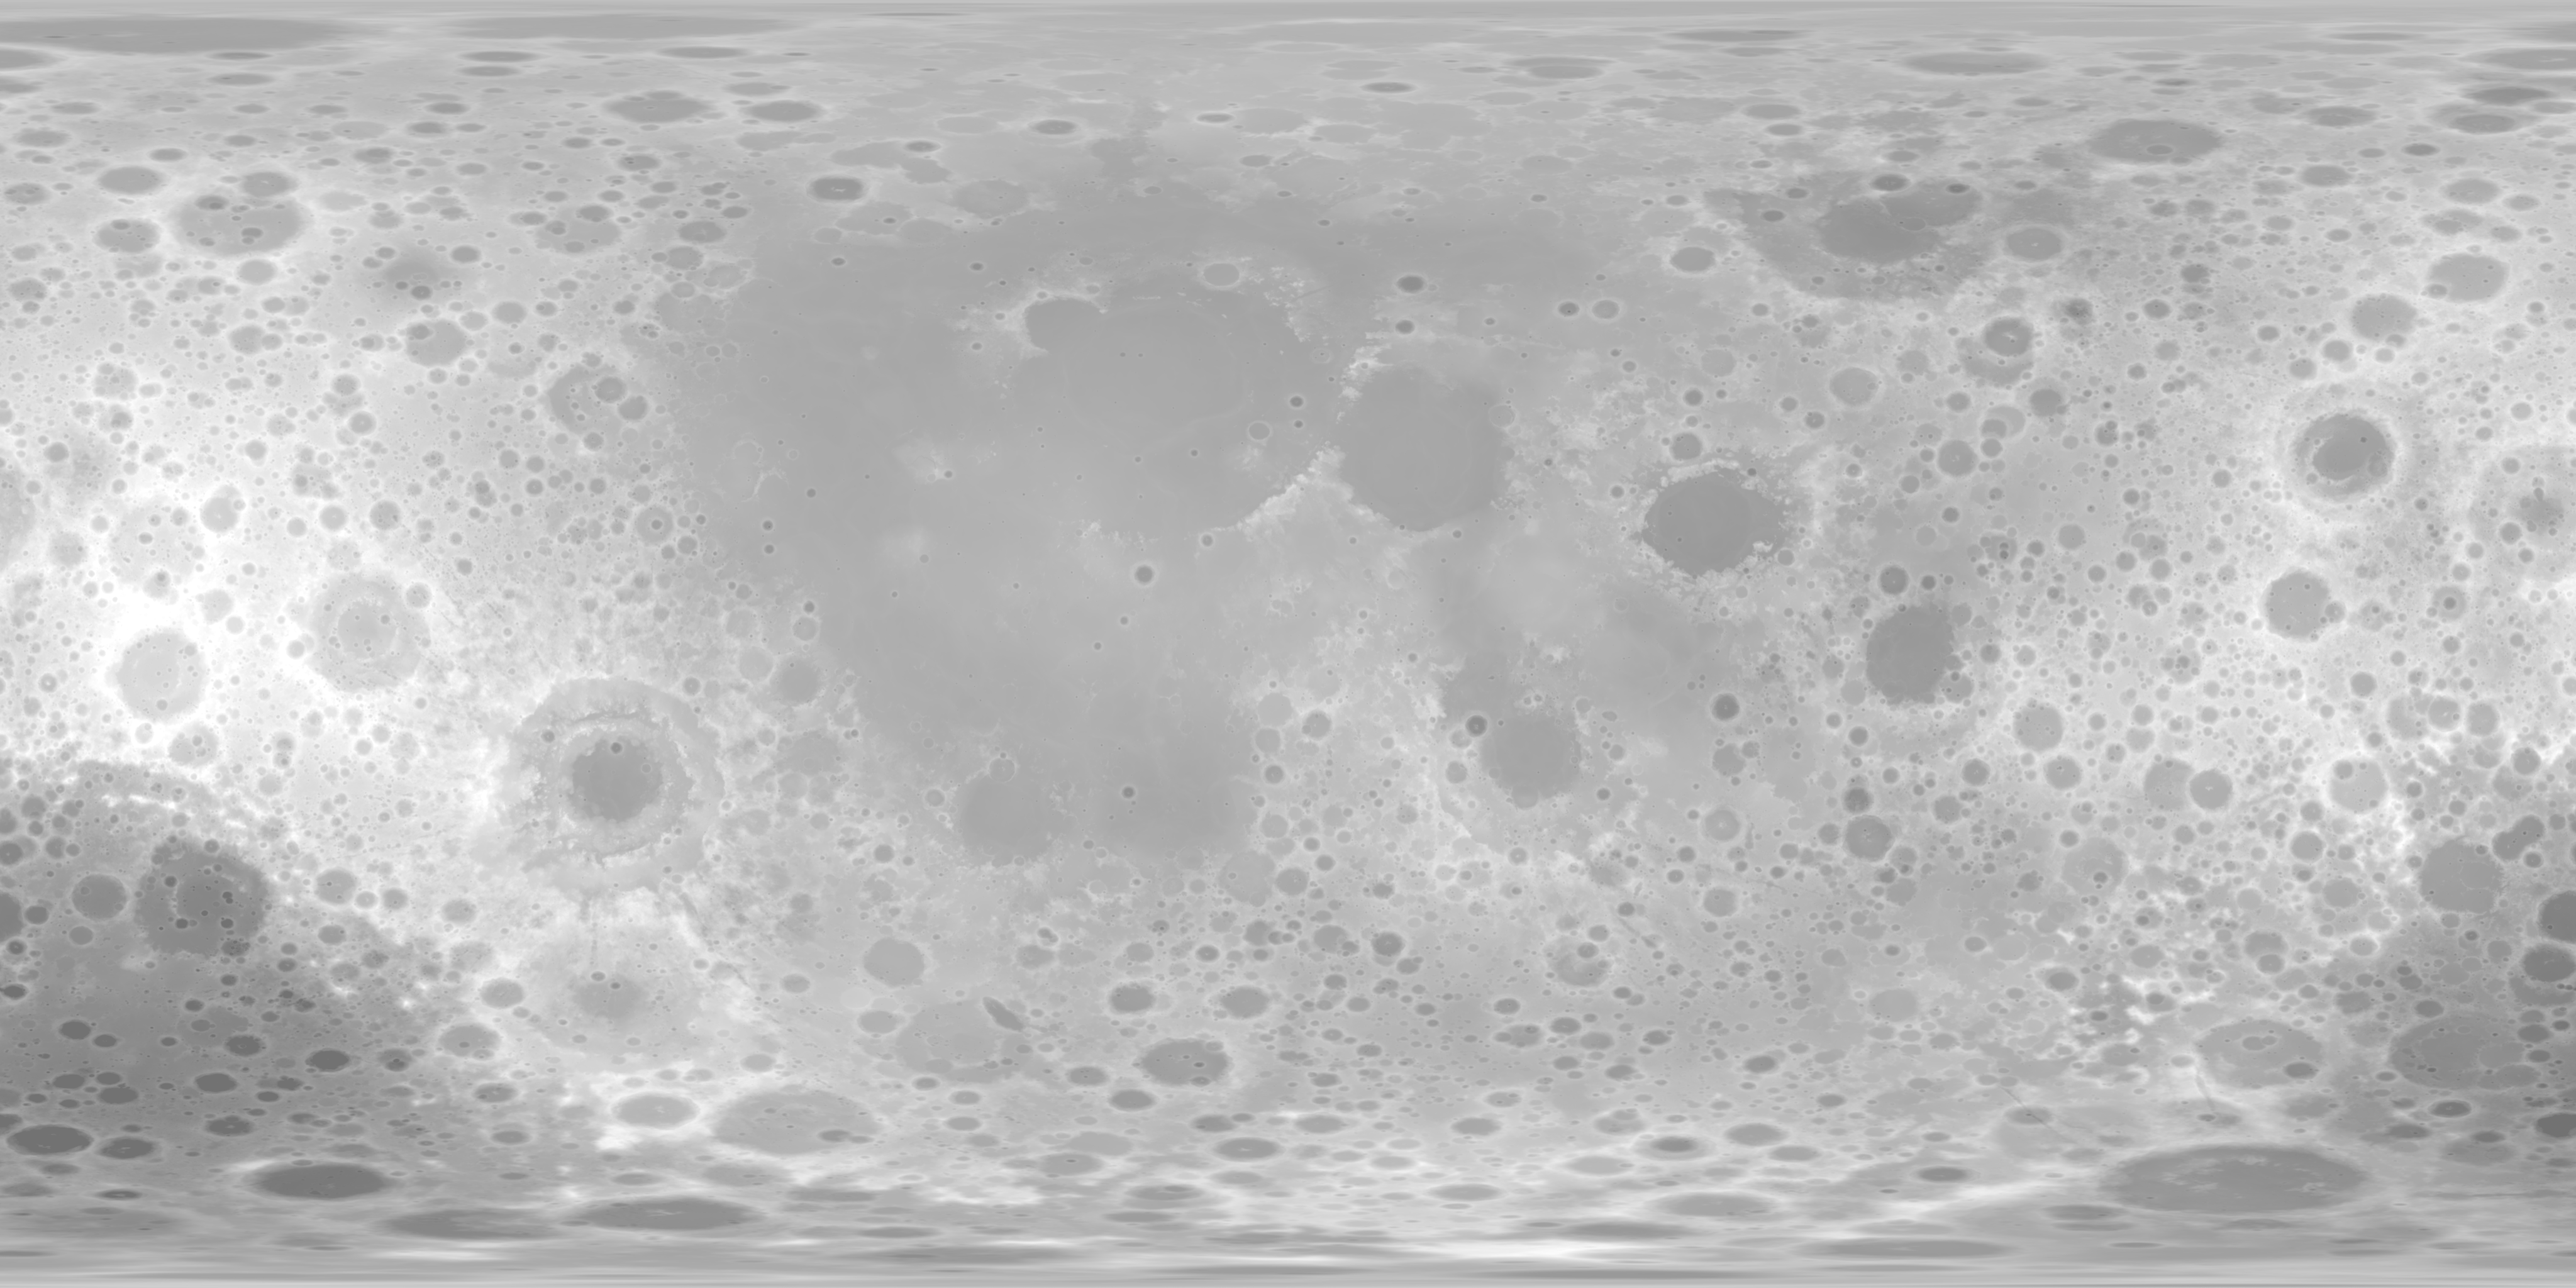
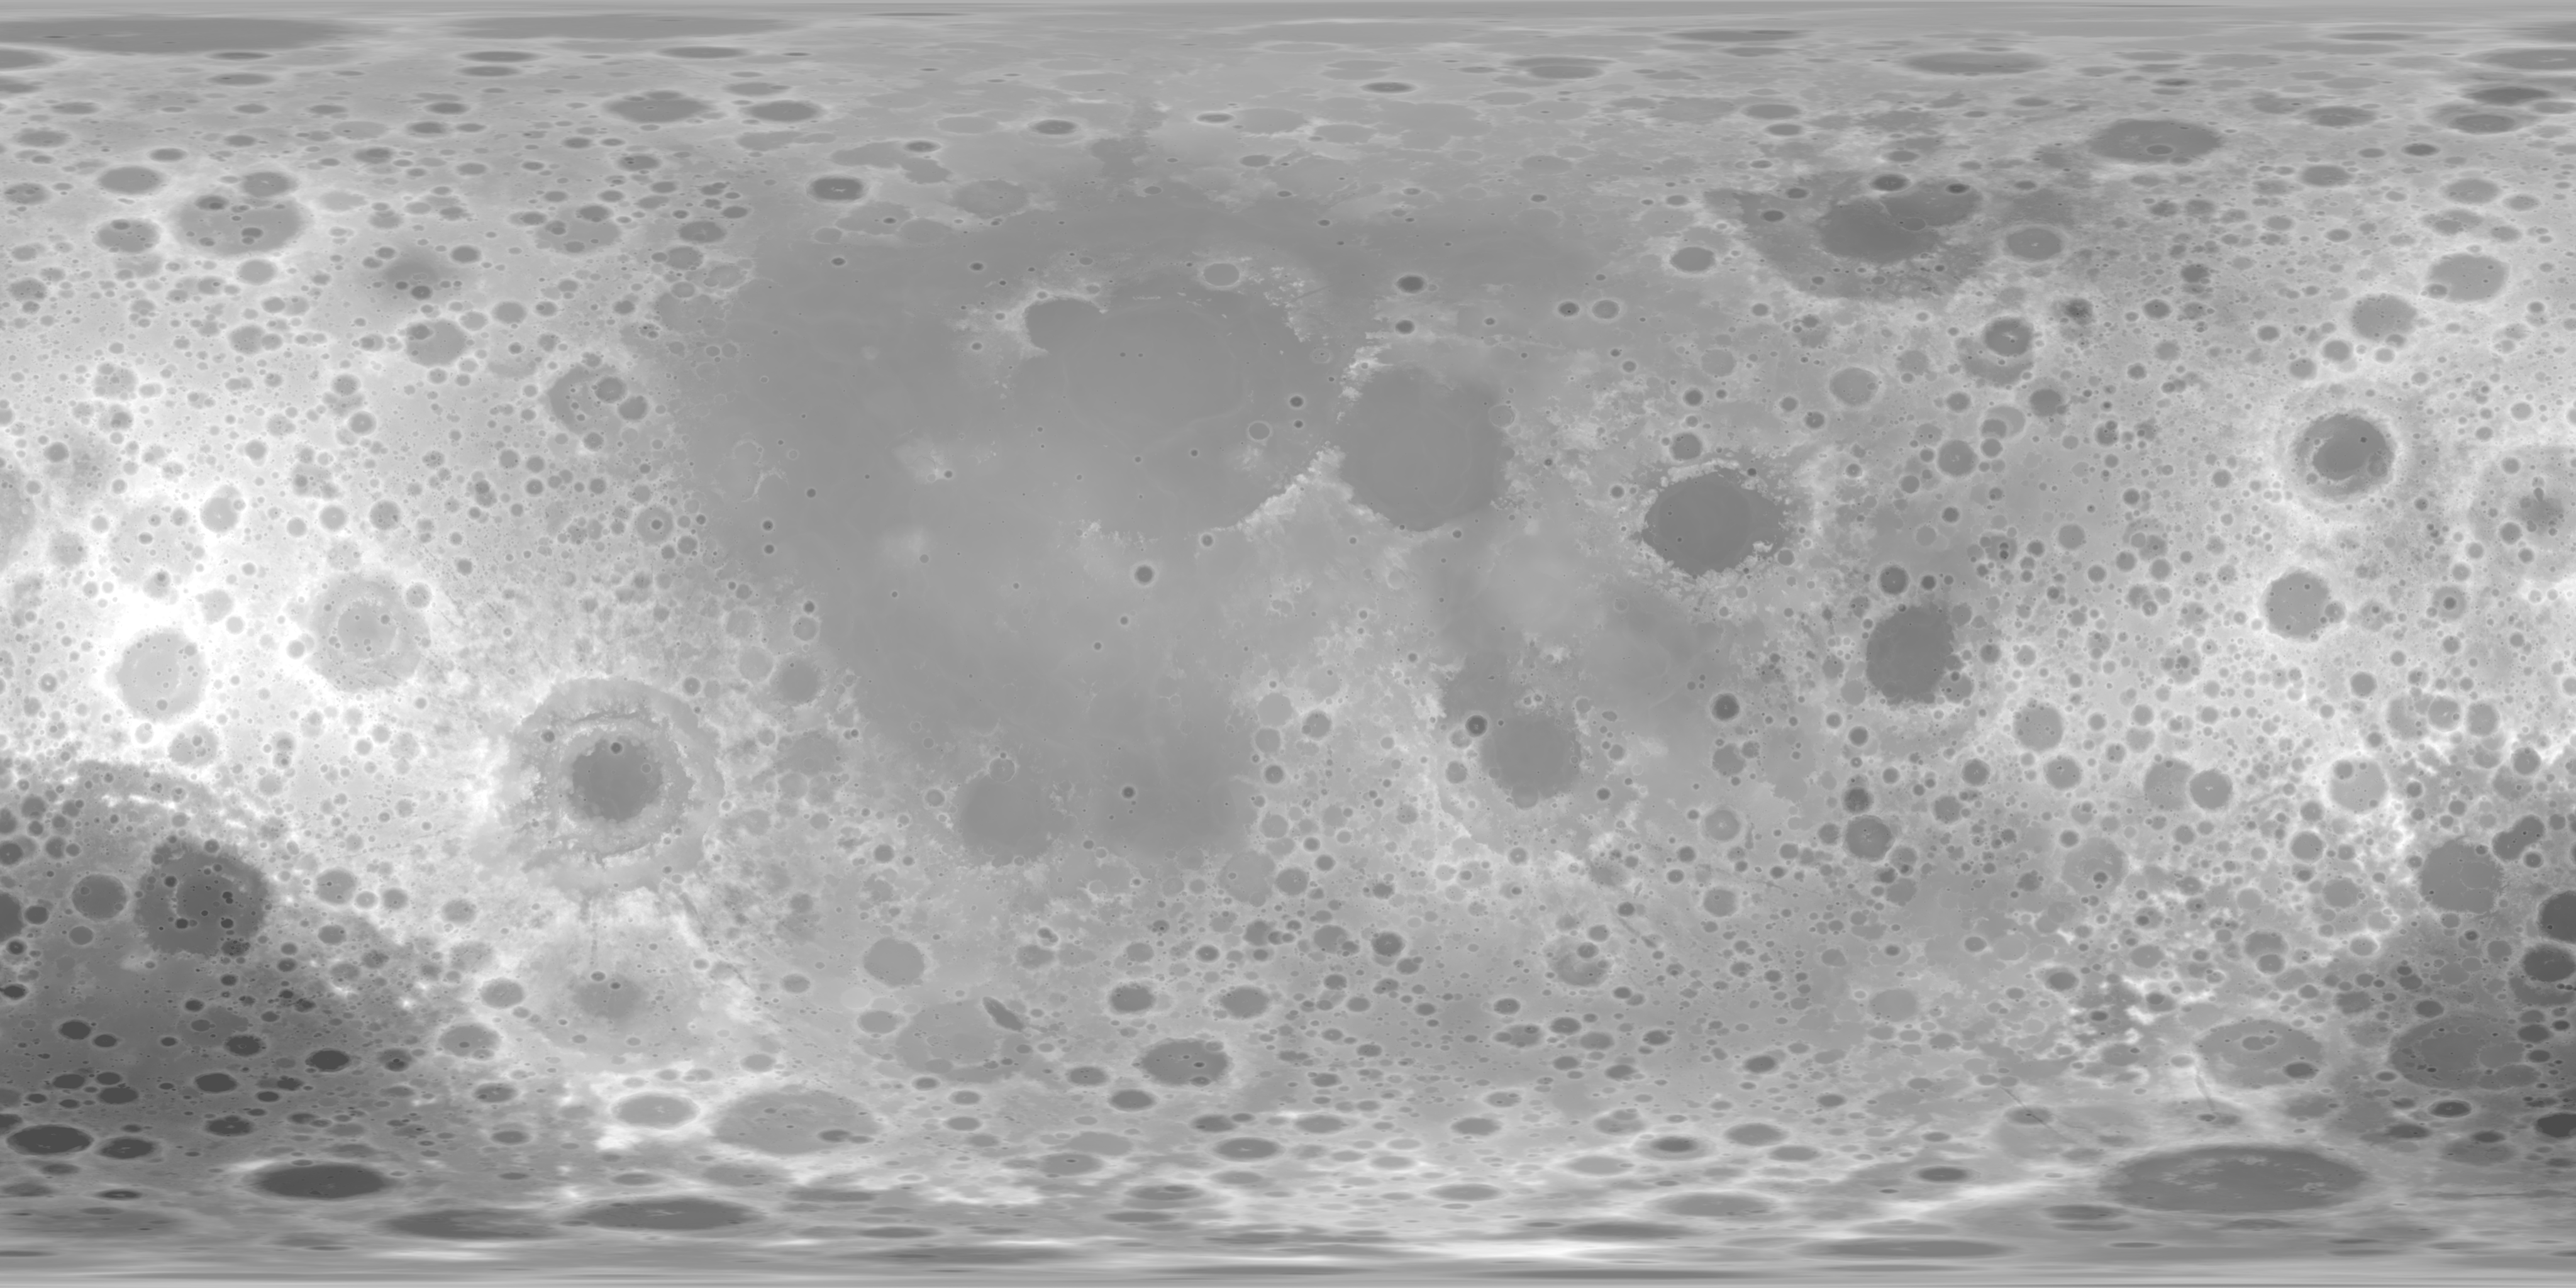
Deepen cavities: stronger AO, less fill light, de-sparkled normals

diff --git a/blue-moon-3d/index.html b/blue-moon-3d/index.html
@@ -74,11 +74,11 @@ const moon = new THREE.Mesh(
     displacementScale: 0.03,
     roughness: 1.0,
     aoMap: aoTex,
-    aoMapIntensity: 1.0,
+    aoMapIntensity: 1.5,
     metalness: 0.0,
     emissive: 0xffffff,
     emissiveMap: colorTex,
-    emissiveIntensity: 0.3
+    emissiveIntensity: 0.15
   })
 );
 moonGroup.add(moon);
@@ -88,7 +88,7 @@ moonGroup.add(moon);
 const sun = new THREE.DirectionalLight(0xe8f0ff, 1.15);
 sun.position.set(2.5, 1.2, 2.0);
 moonGroup.add(sun);
-scene.add(new THREE.HemisphereLight(0x6a7fd0, 0x05070f, 0.5));
+scene.add(new THREE.HemisphereLight(0x6a7fd0, 0x05070f, 0.3));
 
 // --- Glow halo: bright inner ring + wide outer bloom (like the reference)
 function makeGlowTexture(stops) {
